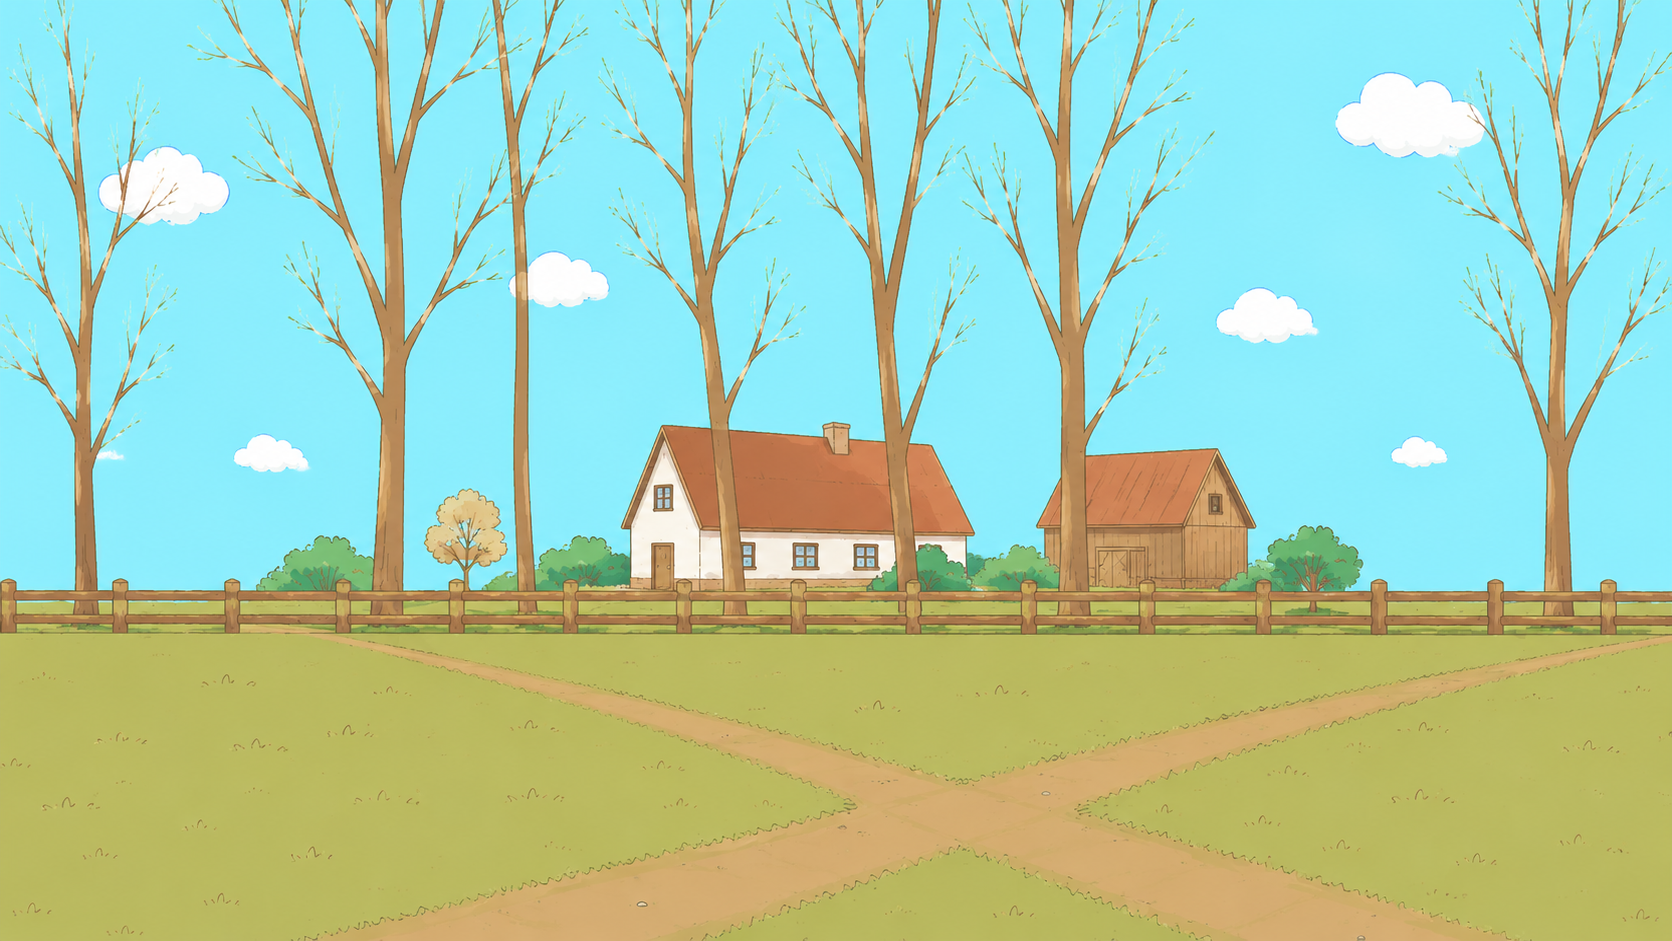
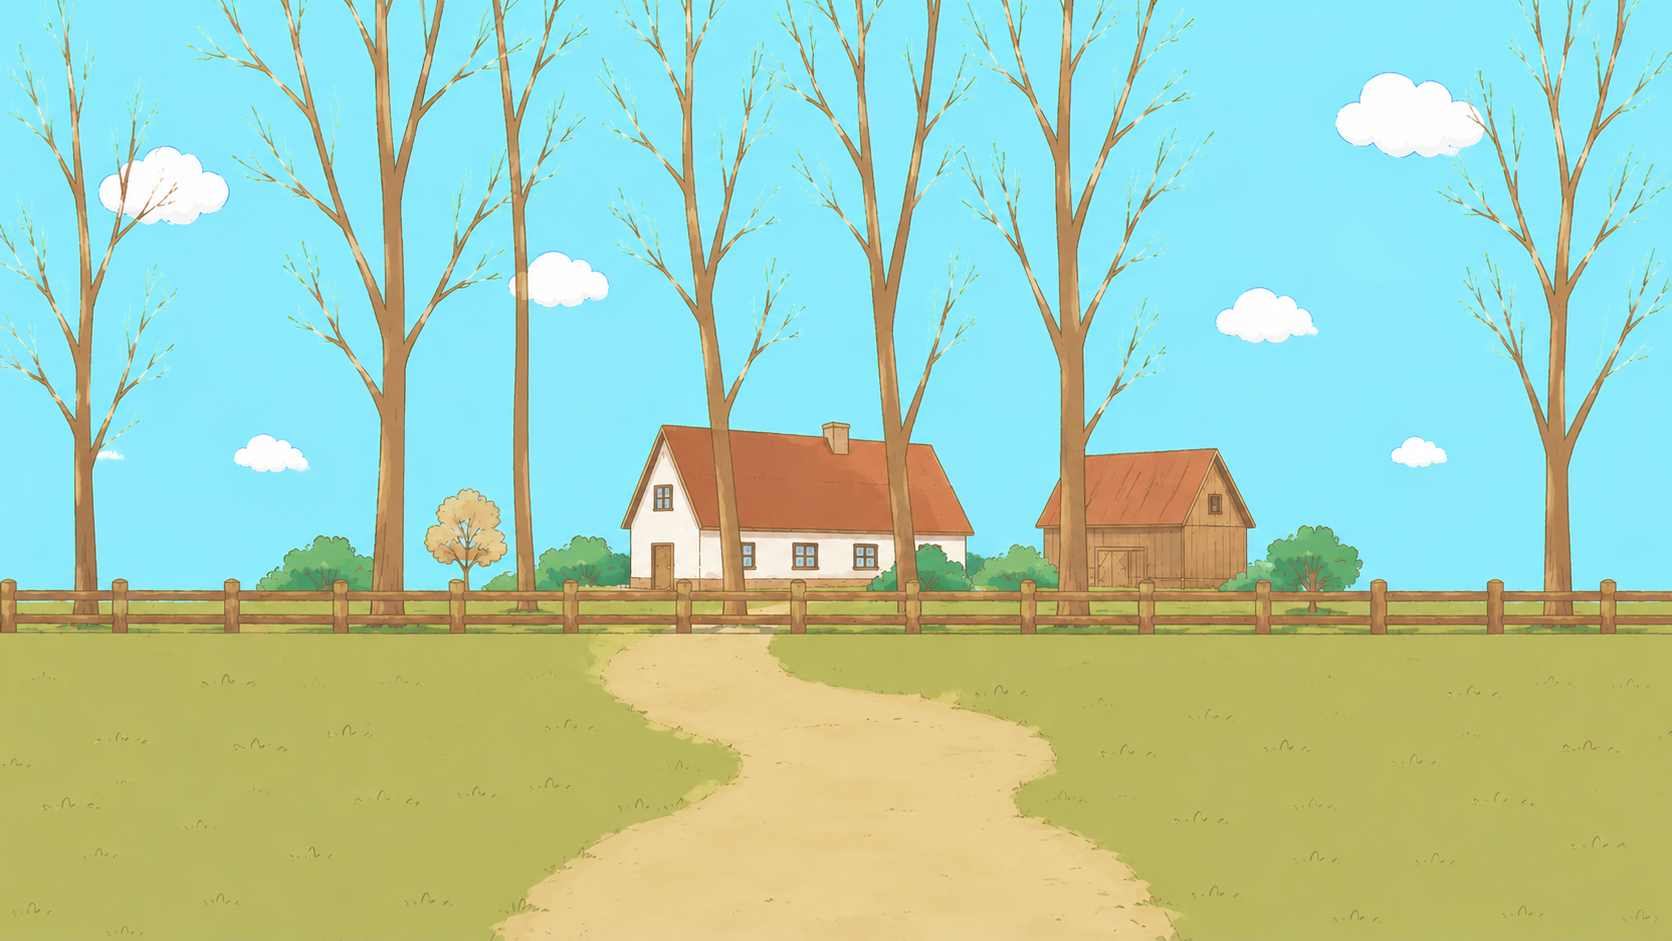
Add Shannon assets

diff --git a/src/game/Game.ts b/src/game/Game.ts
@@ -104,9 +104,9 @@ export class Game {
       '/assets/tilesx3.png',
       '/assets/tilesx4.png',
       '/assets/tilesx5.png',
-      '/assets/luc-jump.png',
-      '/assets/luc-fall.png',
-      '/assets/luc_run.json',
+      '/assets/shannon-jump-resize.png',
+      '/assets/shannon-fall.png',
+      '/assets/shannon_run.json',
       '/assets/coins_anim.json',
       '/assets/sound_off.png',
       '/assets/sound_on.png',
@@ -172,16 +172,16 @@ export class Game {
       this.state.coins.push(coin);
     }
 
-    this.jumpSprite = new Sprite(Texture.from('/assets/luc-jump.png'));
-    this.jumpSprite.scale.set(0.11);
+    this.jumpSprite = new Sprite(Texture.from('/assets/shannon-jump-resize.png'));
+    this.jumpSprite.scale.set(0.13);
     stage.addChild(this.jumpSprite);
 
-    this.fallSprite = new Sprite(Texture.from('/assets/luc-fall.png'));
-    this.fallSprite.scale.set(0.105);
+    this.fallSprite = new Sprite(Texture.from('/assets/shannon-fall.png'));
+    this.fallSprite.scale.set(0.11);
     stage.addChild(this.fallSprite);
 
-    const runSheet = Assets.get('/assets/luc_run.json');
-    this.runAnim = new AnimatedSprite(runSheet.animations['luc_run']);
+    const runSheet = Assets.get('/assets/shannon_run.json');
+    this.runAnim = new AnimatedSprite(runSheet.animations['shannon_run']);
     stage.addChild(this.runAnim);
 
     const fontSize = Math.max(14, Math.round(28 * this.scaleX));
